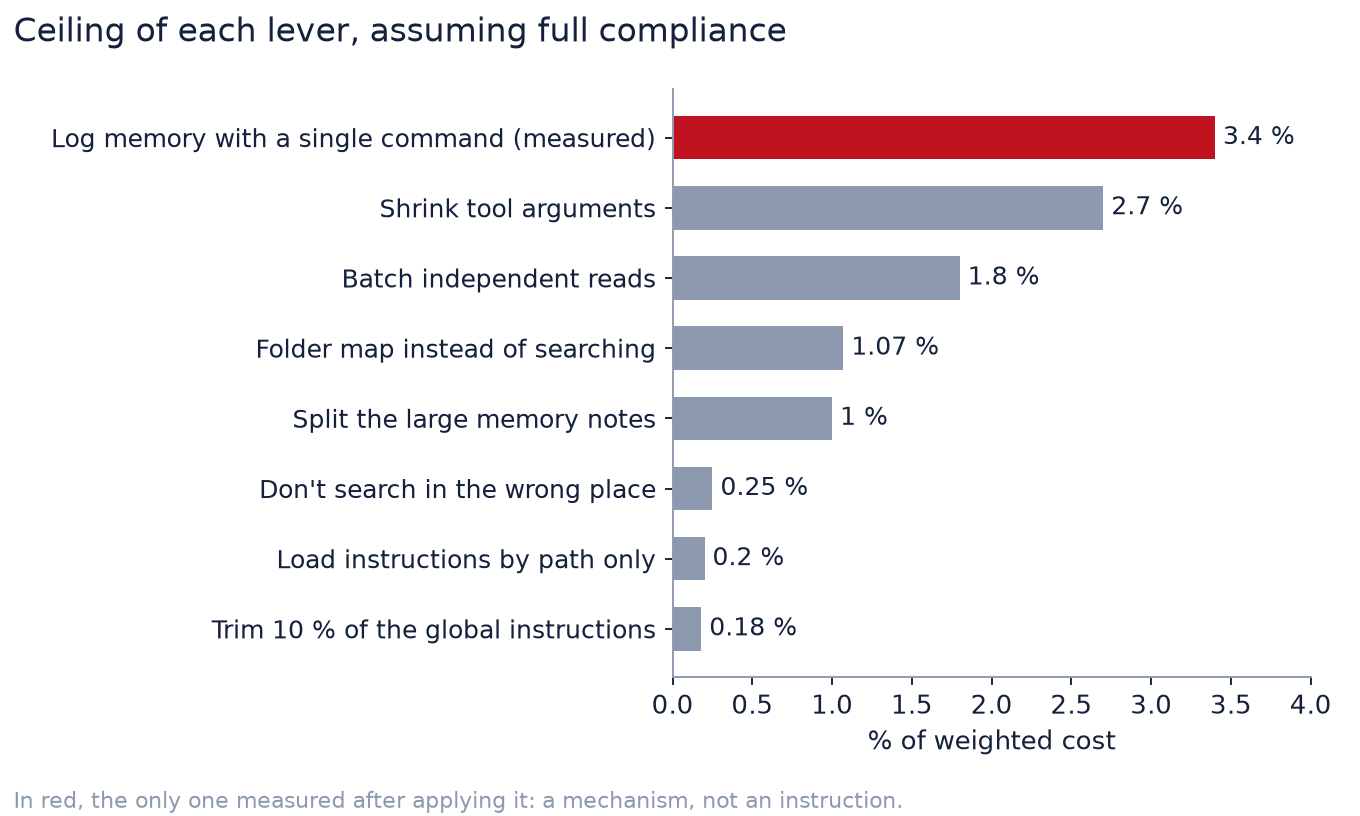
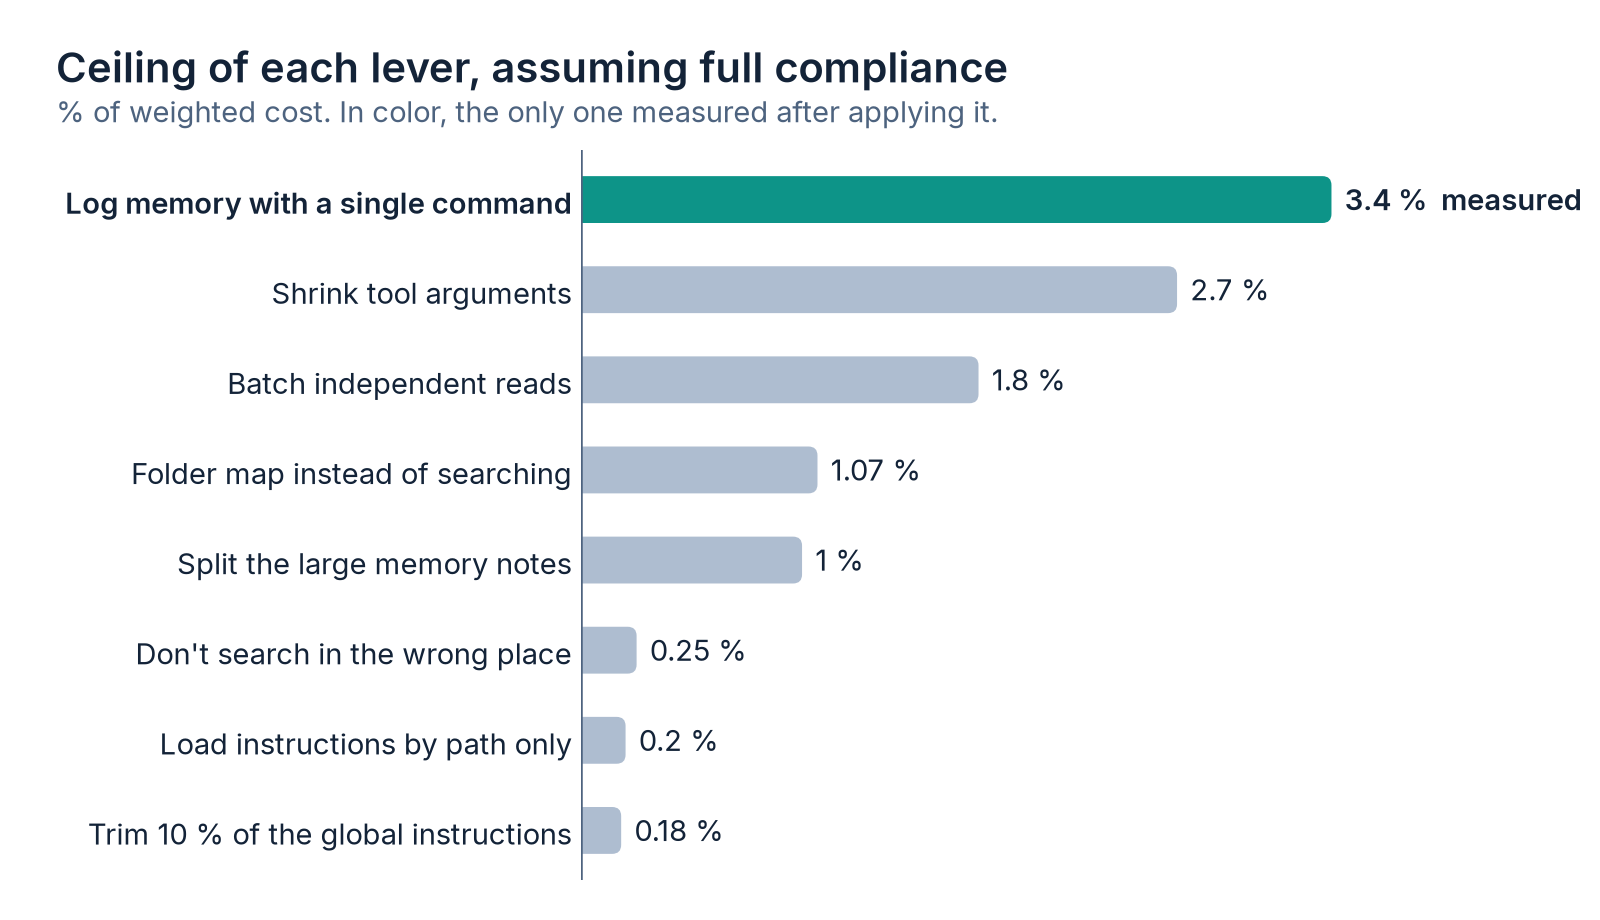
Respaldo automatico 2026-09-23 16:51

diff --git a/articulos/palancas-chicas/index.html b/articulos/palancas-chicas/index.html
@@ -158,8 +158,8 @@
   .resumen ul{margin:0 0 12px}
 
   figure{margin:30px 0 34px}
-  figure img{width:100%; display:block; background:#fff; border:1px solid var(--line);
-             border-radius:12px; padding:10px}
+  figure img{width:100%; height:auto; display:block; background:var(--card); border:1px solid var(--line);
+             border-radius:12px}
   figcaption{color:var(--muted); font-size:14px; margin-top:10px; line-height:1.55}
 
   .cifras{display:grid; grid-template-columns:repeat(auto-fit,minmax(150px,1fr));
@@ -357,7 +357,10 @@ subieron a 47 % en los tres días siguientes a escribir la regla, para volver a 
 10 %. Tres días buenos y se soltó. Ya me había pasado lo mismo con otra regla unas semanas antes.</p>
 
 <figure>
-  <img src="img/regla.png" alt="Barras: 9 a 16 % de llamadas con dos o más herramientas antes de la regla, 47 % en los tres días siguientes, 18 % desde el 14 de septiembre y 10 % en el régimen siguiente.">
+  <picture>
+    <source srcset="img/regla-oscuro.png" media="(prefers-color-scheme: dark)">
+    <img src="img/regla.png" width="1600" height="920" loading="lazy" alt="Barras: 9 a 16 % de llamadas con dos o más herramientas antes de la regla, 47 % en los tres días siguientes, 18 % desde el 14 de septiembre y 10 % en el régimen siguiente.">
+  </picture>
   <figcaption>Proporción de llamadas que mandan dos o más herramientas juntas, que es lo que la
   regla pedía. Subió en los tres días siguientes a escribirla y volvió a su nivel.</figcaption>
 </figure>
@@ -380,9 +383,12 @@ instrucciones.</p></div>
 existe. La del costo es lo que se paga por intentarlo.</p>
 
 <figure>
-  <img src="img/palancas.png" alt="Barras horizontales: registrar la memoria en un solo comando 3,4 % medido; el resto son techos entre 2,7 % y 0,18 % del costo ponderado.">
-  <figcaption>El techo de cada palanca, en porcentaje del costo ponderado. La barra roja es la
-  única que se midió después de aplicarla, y es la del lote que se describe más arriba.</figcaption>
+  <picture>
+    <source srcset="img/palancas-oscuro.png" media="(prefers-color-scheme: dark)">
+    <img src="img/palancas.png" width="1600" height="920" loading="lazy" alt="Barras horizontales: registrar la memoria en un solo comando 3,4 % medido; el resto son techos entre 2,7 % y 0,18 % del costo ponderado.">
+  </picture>
+  <figcaption>El techo de cada palanca, en porcentaje del costo ponderado. La barra en color es
+  la única que se midió después de aplicarla, y es la del lote que se describe más arriba.</figcaption>
 </figure>
 
 <div class="tabla"><table>
@@ -436,7 +442,10 @@ que en realidad habían corrido en paralelo, y sin ellas quedó en +1,7 a +1,9 %
 dio +0,5 %: ese día el trabajo ya venía encadenado en sesiones largas y casi no había dónde juntar.</p>
 
 <figure>
-  <img src="img/sesiones.png" alt="Barras: cortar al pasar 25 mil tokens de exceso -2,7 %, al pasar 50 mil -0,6 %, desde 75 mil 0 %; un oráculo +2,9 %; juntar sesiones +1,7 a +1,9 % el primer día y +0,53 % el segundo.">
+  <picture>
+    <source srcset="img/sesiones-oscuro.png" media="(prefers-color-scheme: dark)">
+    <img src="img/sesiones.png" width="1600" height="980" loading="lazy" alt="Barras: cortar al pasar 25 mil tokens de exceso -2,7 %, al pasar 50 mil -0,6 %, desde 75 mil 0 %; un oráculo +2,9 %; juntar sesiones +1,7 a +1,9 % el primer día y +0,53 % el segundo.">
+  </picture>
   <figcaption>Ahorro simulado sobre los transcripts, en porcentaje del costo ponderado. El
   oráculo es un techo imposible: corta en el mejor momento, sabe el futuro y no paga el costo
   de reorientarse.</figcaption>

diff --git a/articulos/small-levers/index.html b/articulos/small-levers/index.html
@@ -158,8 +158,8 @@
   .resumen ul{margin:0 0 12px}
 
   figure{margin:30px 0 34px}
-  figure img{width:100%; display:block; background:#fff; border:1px solid var(--line);
-             border-radius:12px; padding:10px}
+  figure img{width:100%; height:auto; display:block; background:var(--card); border:1px solid var(--line);
+             border-radius:12px}
   figcaption{color:var(--muted); font-size:14px; margin-top:10px; line-height:1.55}
 
   .cifras{display:grid; grid-template-columns:repeat(auto-fit,minmax(150px,1fr));
@@ -358,7 +358,10 @@ days after writing the rule, only to go back to 18 % and then to 10 %. Three goo
 off. The same thing had already happened to me with another rule a few weeks earlier.</p>
 
 <figure>
-  <img src="img/regla.png" alt="Bars: 9 to 16 % of calls with two or more tools before the rule, 47 % in the three days after, 18 % from September 14 and 10 % in the next regime.">
+  <picture>
+    <source srcset="img/regla-oscuro.png" media="(prefers-color-scheme: dark)">
+    <img src="img/regla.png" width="1600" height="920" loading="lazy" alt="Bars: 9 to 16 % of calls with two or more tools before the rule, 47 % in the three days after, 18 % from September 14 and 10 % in the next regime.">
+  </picture>
   <figcaption>Share of calls that send two or more tools together, which is what the rule asked
   for. It went up in the three days after it was written and went back to its level.</figcaption>
 </figure>
@@ -381,8 +384,11 @@ instructions.</p></div>
 does not exist. The cost column is what you pay for trying.</p>
 
 <figure>
-  <img src="img/palancas.png" alt="Horizontal bars: logging memory with a single command 3.4 % measured; the rest are ceilings between 2.7 % and 0.18 % of weighted cost.">
-  <figcaption>The ceiling of each lever, as a percentage of weighted cost. The red bar is the only
+  <picture>
+    <source srcset="img/palancas-oscuro.png" media="(prefers-color-scheme: dark)">
+    <img src="img/palancas.png" width="1600" height="920" loading="lazy" alt="Horizontal bars: logging memory with a single command 3.4 % measured; the rest are ceilings between 2.7 % and 0.18 % of weighted cost.">
+  </picture>
+  <figcaption>The ceiling of each lever, as a percentage of weighted cost. The colored bar is the only
   one measured after applying it, and it belongs to the batch described above.</figcaption>
 </figure>
 
@@ -440,7 +446,10 @@ The second day gave +0.5 %: that day the work was already chained in long sessio
 hardly anywhere to merge.</p>
 
 <figure>
-  <img src="img/sesiones.png" alt="Bars: cutting above 25 thousand tokens of excess -2.7 %, above 50 thousand -0.6 %, from 75 thousand 0 %; an oracle +2.9 %; merging sessions +1.7 to +1.9 % on the first day and +0.53 % on the second.">
+  <picture>
+    <source srcset="img/sesiones-oscuro.png" media="(prefers-color-scheme: dark)">
+    <img src="img/sesiones.png" width="1600" height="980" loading="lazy" alt="Bars: cutting above 25 thousand tokens of excess -2.7 %, above 50 thousand -0.6 %, from 75 thousand 0 %; an oracle +2.9 %; merging sessions +1.7 to +1.9 % on the first day and +0.53 % on the second.">
+  </picture>
   <figcaption>Simulated savings on the transcripts, as a percentage of weighted cost. The oracle is
   an impossible ceiling: it cuts at the best moment, knows the future and does not pay the cost of
   reorienting.</figcaption>

diff --git a/_graficos/palancas_chicas.py b/_graficos/palancas_chicas.py
@@ -1,0 +1,266 @@
+"""Gráficos de «La medición era el producto» (palancas-chicas y small-levers).
+
+Genera los tres gráficos en español e inglés, cada uno en tema claro y oscuro, con la paleta
+del sitio (validada con validate_palette.js de la skill dataviz) y la tipografía Inter.
+
+    python _graficos/palancas_chicas.py
+
+Salida: articulos/<slug>/img/<nombre>.png (claro, también es la og:image) y
+<nombre>-oscuro.png (oscuro, lo sirve <picture> con prefers-color-scheme: dark).
+"""
+import glob
+import os
+from pathlib import Path
+
+import matplotlib
+matplotlib.use("Agg")
+import matplotlib.pyplot as plt
+from matplotlib import font_manager
+from matplotlib.patches import PathPatch
+from matplotlib.path import Path as MPath
+from matplotlib.transforms import blended_transform_factory
+
+RAIZ = Path(__file__).resolve().parent.parent
+
+for f in glob.glob(os.path.expandvars(r"%LOCALAPPDATA%\Microsoft\Windows\Fonts\Inter-*.ttf")):
+    font_manager.fontManager.addfont(f)
+assert "Inter" in {f.name for f in font_manager.fontManager.ttflist}, "falta instalar Inter (rsms/inter)"
+plt.rcParams.update({"font.family": "Inter", "svg.fonttype": "none"})
+
+# Superficie = --card del sitio. Acento y negativo validados en ambos modos.
+TEMAS = {
+    "claro": dict(sup="#ffffff", tinta="#132338", suave="#4d637f", linea="#dbe4ef",
+                  neutro="#aebdd0", acento="#0d9488", negativo="#d64545"),
+    "oscuro": dict(sup="#17293f", tinta="#eaf1f9", suave="#9db2ca", linea="#26405e",
+                   neutro="#4f6a8c", acento="#13a593", negativo="#e85d5d"),
+}
+
+ANCHO, DPI = 8.0, 200          # 1600 px de ancho
+RADIO_PX = 9                   # extremo redondeado (~4 px de pantalla)
+HUECO_PX = 5                   # separación de superficie entre tramos que se tocan
+
+
+def mezclar(c, fondo, a):
+    """Color c con opacidad a sobre el fondo, como hex opaco."""
+    c = [int(c[i:i + 2], 16) for i in (1, 3, 5)]
+    f = [int(fondo[i:i + 2], 16) for i in (1, 3, 5)]
+    return "#" + "".join(f"{round(a * x + (1 - a) * y):02x}" for x, y in zip(c, f))
+
+
+def num(v, idioma, dec=None, signo=False):
+    s = f"{v:.{dec}f}" if dec is not None else f"{v:.2f}".rstrip("0").rstrip(".")
+    if idioma == "es":
+        s = s.replace(".", ",")
+    if signo and v > 0:
+        s = "+" + s
+    return s.replace("-", "−") + " %"
+
+
+class Lienzo:
+    """Figura con márgenes fijos, para que el radio en píxeles sea exacto."""
+
+    def __init__(self, t, alto, izq_px, titulo, subtitulo, nota=None, abajo=40, der=70):
+        self.t = t
+        self.fig = plt.figure(figsize=(ANCHO, alto), dpi=DPI, facecolor=t["sup"])
+        W, H = ANCHO * DPI, alto * DPI
+        arriba = 150 if subtitulo else 105
+        self.ax = self.fig.add_axes([izq_px / W, abajo / H, 1 - (izq_px + der) / W,
+                                     1 - (arriba + abajo) / H])
+        self.ax.set_facecolor(t["sup"])
+        for s in self.ax.spines.values():
+            s.set_visible(False)
+        self.ax.tick_params(length=0, colors=t["tinta"], labelsize=10.5)
+        self.fig.text(56 / W, 1 - 42 / H, titulo, fontsize=15, fontweight="semibold",
+                      color=t["tinta"], va="top")
+        if subtitulo:
+            self.fig.text(56 / W, 1 - 94 / H, subtitulo, fontsize=10.5, color=t["suave"], va="top")
+        if nota:
+            self.fig.text(56 / W, 24 / H, nota, fontsize=8.8, color=t["suave"], va="bottom")
+
+    def escalas(self):
+        bb = self.ax.get_window_extent()
+        x0, x1 = self.ax.get_xlim()
+        y0, y1 = self.ax.get_ylim()
+        return abs(x1 - x0) / bb.width, abs(y1 - y0) / bb.height
+
+    def barra(self, a, b, centro, grueso, color, horizontal=True, redondo=True):
+        """Tramo de a a b; si redondo, redondea el extremo b (el de los datos)."""
+        dx, dy = self.escalas()
+        if not horizontal:
+            dx, dy = dy, dx
+        r_largo = min(RADIO_PX * dx, abs(b - a)) if redondo else 0
+        r_ancho = min(RADIO_PX * dy, grueso / 2) if redondo else 0
+        s = 1 if b >= a else -1
+        lo, hi = centro - grueso / 2, centro + grueso / 2
+        e = b - s * r_largo
+        pts = [(a, lo), (e, lo), (b, lo), (b, lo + r_ancho), (b, hi - r_ancho), (b, hi),
+               (e, hi), (a, hi), (a, lo)]
+        codigos = [MPath.MOVETO, MPath.LINETO, MPath.CURVE3, MPath.CURVE3, MPath.LINETO,
+                   MPath.CURVE3, MPath.CURVE3, MPath.LINETO, MPath.CLOSEPOLY]
+        if not horizontal:
+            pts = [(y, x) for x, y in pts]
+        self.ax.add_patch(PathPatch(MPath(pts, codigos), facecolor=color, edgecolor="none"))
+
+    def hueco(self, horizontal=True):
+        dx, dy = self.escalas()
+        return HUECO_PX * (dx if horizontal else dy)
+
+    def texto(self, x, y, s, **kw):
+        kw.setdefault("color", self.t["tinta"])
+        kw.setdefault("fontsize", 10.5)
+        self.ax.text(x, y, s, **kw)
+
+    def guardar(self, destino):
+        self.fig.savefig(destino, dpi=DPI, facecolor=self.t["sup"])
+        plt.close(self.fig)
+
+
+TXT = {
+    "es": dict(
+        slug="palancas-chicas",
+        p_tit="Techo de cada palanca, suponiendo obediencia total",
+        p_sub="% del costo ponderado. En color, la única medida después de aplicarla.",
+        p_filas=["Registrar la memoria en un solo comando", "Achicar los argumentos de herramientas",
+                 "Juntar lecturas independientes", "Mapa de carpetas en vez de buscar",
+                 "Partir las notas de memoria grandes", "No buscar en el lugar equivocado",
+                 "Cargar instrucciones solo por ruta", "Recortar 10 % de las instrucciones globales"],
+        p_medido="medido",
+        r_tit="Una instrucción escrita rinde tres días",
+        r_sub="% de llamadas que mandan dos o más herramientas juntas",
+        r_cols=["Dos semanas antes", "11 al 13 de sep.\nregla recién escrita", "Desde el 14 de sep.",
+                "Régimen siguiente"],
+        r_rango="9-16 %",
+        s_tit="Cortar sesiones sale negativo; seguir en la misma, a veces rinde",
+        s_sub="Ahorro simulado sobre los transcripts, % del costo ponderado",
+        s_g1="Cortar la sesión a mitad de tarea", s_g2="Seguir con la tarea siguiente en la misma",
+        s_filas=["Al pasar 25 mil tokens de exceso", "Al pasar 50 mil", "Desde 75 mil (no corta nunca)",
+                 "Oráculo que sabe el futuro", "Primer día", "Segundo día"],
+        s_oraculo="techo imposible",
+        s_rango="+1,7 a +1,9 %",
+    ),
+    "en": dict(
+        slug="small-levers",
+        p_tit="Ceiling of each lever, assuming full compliance",
+        p_sub="% of weighted cost. In color, the only one measured after applying it.",
+        p_filas=["Log memory with a single command", "Shrink tool arguments", "Batch independent reads",
+                 "Folder map instead of searching", "Split the large memory notes",
+                 "Don't search in the wrong place", "Load instructions by path only",
+                 "Trim 10 % of the global instructions"],
+        p_medido="measured",
+        r_tit="A written instruction pays off for three days",
+        r_sub="% of calls that send two or more tools together",
+        r_cols=["Two weeks before", "Sep 11-13\nrule just written", "From Sep 14", "Next regime"],
+        r_rango="9-16 %",
+        s_tit="Cutting sessions comes out negative; staying in one sometimes pays",
+        s_sub="Simulated savings on the transcripts, % of weighted cost",
+        s_g1="Cut the session mid-task", s_g2="Carry on with the next task in the same one",
+        s_filas=["Above 25k tokens of excess", "Above 50k", "From 75k (never cuts)",
+                 "Oracle that knows the future", "First day", "Second day"],
+        s_oraculo="impossible ceiling",
+        s_rango="+1.7 to +1.9 %",
+    ),
+}
+
+
+def ancho_etiquetas(textos, tam=10.5):
+    fig = plt.figure(dpi=DPI)
+    r = fig.canvas.get_renderer()
+    w = max(fig.text(0, 0, s, fontsize=tam).get_window_extent(r).width for s in textos)
+    plt.close(fig)
+    return w
+
+
+def palancas(t, L, idioma, destino):
+    vals = [3.4, 2.7, 1.8, 1.07, 1.0, 0.25, 0.2, 0.18]
+    izq = 56 + ancho_etiquetas(L["p_filas"]) + 28
+    c = Lienzo(t, 4.6, izq, L["p_tit"], L["p_sub"])
+    ax = c.ax
+    n = len(vals)
+    ax.set_xlim(0, 4.3); ax.set_ylim(n - 0.45, -0.55)
+    ax.set_xticks([]); ax.set_yticks(range(n)); ax.set_yticklabels(L["p_filas"])
+    for i, v in enumerate(vals):
+        medido = i == 0
+        c.barra(0, v, i, 0.52, t["acento"] if medido else t["neutro"])
+        et = num(v, idioma) + (f"  {L['p_medido']}" if medido else "")
+        c.texto(v + 0.06, i, et, va="center", fontweight="semibold" if medido else "normal")
+    ax.get_yticklabels()[0].set_fontweight("semibold")
+    ax.axvline(0, color=t["suave"], lw=0.9)
+    c.guardar(destino)
+
+
+def regla(t, L, idioma, destino):
+    vals = [47, 18, 10]
+    c = Lienzo(t, 4.6, 56, L["r_tit"], L["r_sub"], abajo=120, der=56)
+    ax = c.ax
+    ax.set_xlim(-0.55, 3.55); ax.set_ylim(0, 54)
+    ax.set_yticks([]); ax.set_xticks(range(4)); ax.set_xticklabels(L["r_cols"], fontsize=10.2)
+    ax.tick_params(axis="x", pad=8)
+    g = 0.46
+    # Columna 1: rango 9-16 %, tramo firme hasta 9 y tramo claro de 9 a 16.
+    c.barra(0, 9, 0, g, t["neutro"], horizontal=False, redondo=False)
+    c.barra(9 + c.hueco(False), 16, 0, g, mezclar(t["neutro"], t["sup"], 0.45), horizontal=False)
+    c.texto(0, 17.4, L["r_rango"], ha="center", va="bottom")
+    for x, v in zip((1, 2, 3), vals):
+        destacado = x == 1
+        c.barra(0, v, x, g, t["acento"] if destacado else t["neutro"], horizontal=False)
+        c.texto(x, v + 1.4, num(v, idioma, 0), ha="center", va="bottom",
+                fontweight="semibold" if destacado else "normal", fontsize=12 if destacado else 10.5)
+    ax.get_xticklabels()[1].set_fontweight("semibold")
+    ax.axhline(0, color=t["suave"], lw=0.9)
+    c.guardar(destino)
+
+
+def sesiones(t, L, idioma, destino):
+    # (fila, valor, tipo); tipo: neg, cero, oraculo, rango, pos
+    filas = [(0.9, -2.7, "neg"), (1.9, -0.6, "neg"), (2.9, 0.0, "cero"), (3.9, 2.9, "oraculo"),
+             (5.9, 1.8, "rango"), (6.9, 0.53, "pos")]
+    izq = 56 + ancho_etiquetas(L["s_filas"]) + 28
+    c = Lienzo(t, 4.9, izq, L["s_tit"], L["s_sub"])
+    ax = c.ax
+    ax.set_xlim(-3.9, 5.9); ax.set_ylim(7.45, -0.35)
+    ax.set_xticks([]); ax.set_yticks([f[0] for f in filas]); ax.set_yticklabels(L["s_filas"])
+    borde = blended_transform_factory(c.fig.transFigure, ax.transData)
+    for y, s in ((0, L["s_g1"]), (5.0, L["s_g2"])):
+        ax.text(56 / (ANCHO * DPI), y, s, transform=borde, fontsize=10.5, fontweight="semibold",
+                color=t["tinta"], va="center", ha="left", clip_on=False)
+    g = 0.5
+    for (y, v, tipo), et in zip(filas, L["s_filas"]):
+        sep = 0.07
+        if tipo == "neg":
+            c.barra(0, v, y, g, t["negativo"])
+            c.texto(v - sep, y, num(v, idioma, signo=True), ha="right", va="center")
+        elif tipo == "cero":
+            ax.plot([0], [y], "o", ms=5.5, color=t["neutro"], mec=t["sup"], mew=1.5, zorder=3)
+            c.texto(sep + 0.05, y, num(0, idioma), ha="left", va="center")
+        elif tipo == "oraculo":
+            c.barra(0, v, y, g, mezclar(t["acento"], t["sup"], 0.38))
+            c.texto(v + sep, y, f"{num(v, idioma, signo=True)}  {L['s_oraculo']}", ha="left",
+                    va="center", color=t["suave"])
+        elif tipo == "rango":
+            c.barra(0, 1.7, y, g, t["acento"], redondo=False)
+            c.barra(1.7 + c.hueco(), 1.9, y, g, mezclar(t["acento"], t["sup"], 0.45))
+            c.texto(1.9 + sep, y, L["s_rango"], ha="left", va="center")
+        else:
+            c.barra(0, v, y, g, t["acento"])
+            c.texto(v + sep, y, num(v, idioma, signo=True), ha="left", va="center")
+    ax.axvline(0, color=t["suave"], lw=0.9)
+    c.guardar(destino)
+
+
+def main():
+    hechos = []
+    for idioma, L in TXT.items():
+        img = RAIZ / "articulos" / L["slug"] / "img"
+        img.mkdir(parents=True, exist_ok=True)
+        for tema, t in TEMAS.items():
+            suf = "" if tema == "claro" else "-oscuro"
+            for nombre, fn in (("palancas", palancas), ("regla", regla), ("sesiones", sesiones)):
+                p = img / f"{nombre}{suf}.png"
+                fn(t, L, idioma, p)
+                hechos.append(p)
+    for p in hechos:
+        print(p.relative_to(RAIZ))
+
+
+if __name__ == "__main__":
+    main()
